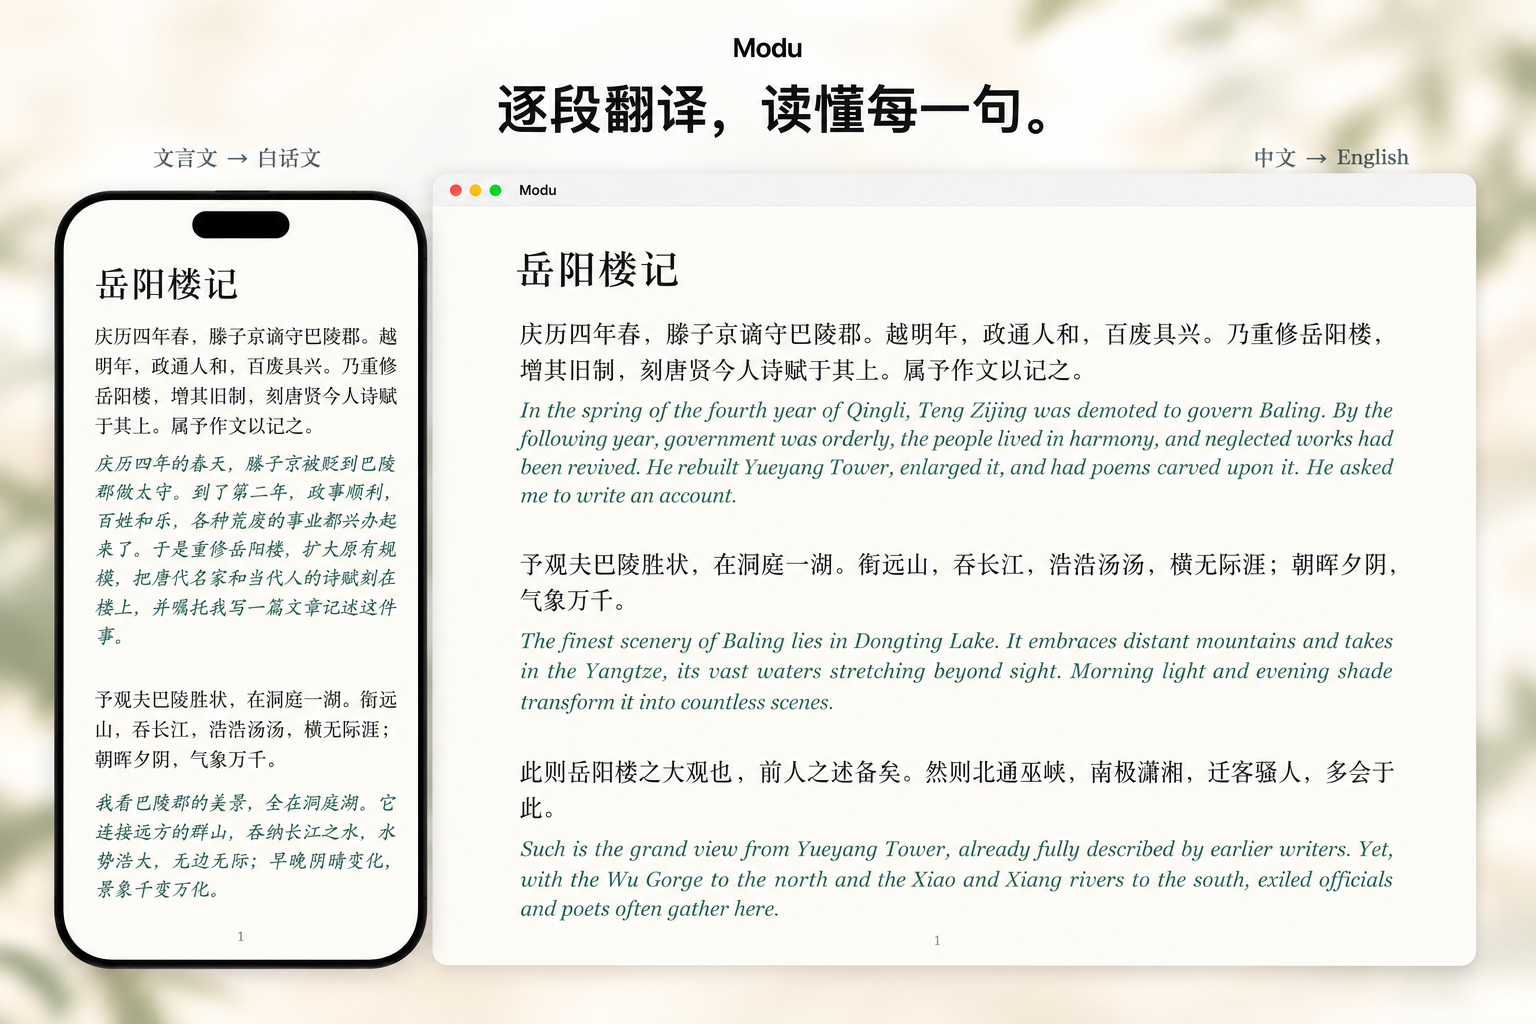
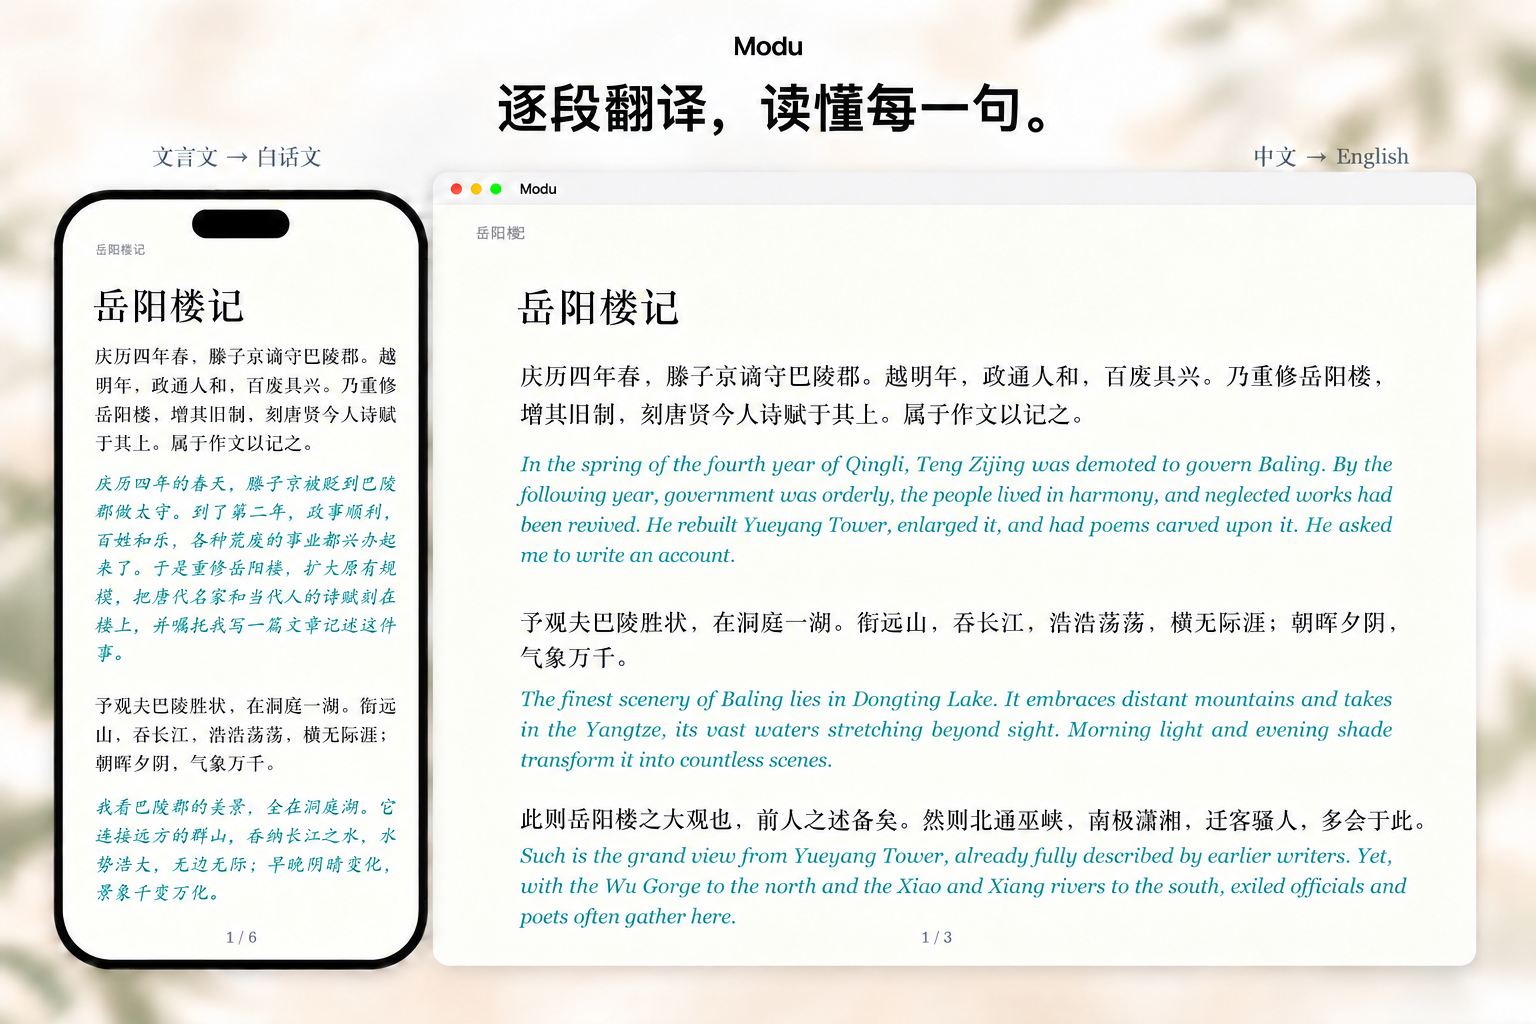
docs: align translation panel headers and page footers

diff --git a/docs/images/README.md b/docs/images/README.md
@@ -66,3 +66,5 @@ Format labels, index states and percentages in this shelf illustration are demon
 ## Historical assets
 
 Earlier artwork remains recoverable in Git history. Images referenced by historical documentation, including `showcase/cross-platform/`, are retained and must not be presented as current UI. Only reviewed final compositions belong in the tracked homepage set; local source captures, PNG masters and contact sheets remain outside it.
+
+The paragraph-translation panel was redrawn to match the supplied reading-panel header/footer reference: small, understated left-aligned chapter headers without in-page divider lines, a native Mac title bar with three window controls, and centered current/total page footers. The phone shows Classical Chinese / modern Chinese and the Mac shows Chinese / English; the independent italic translation styling is retained.
